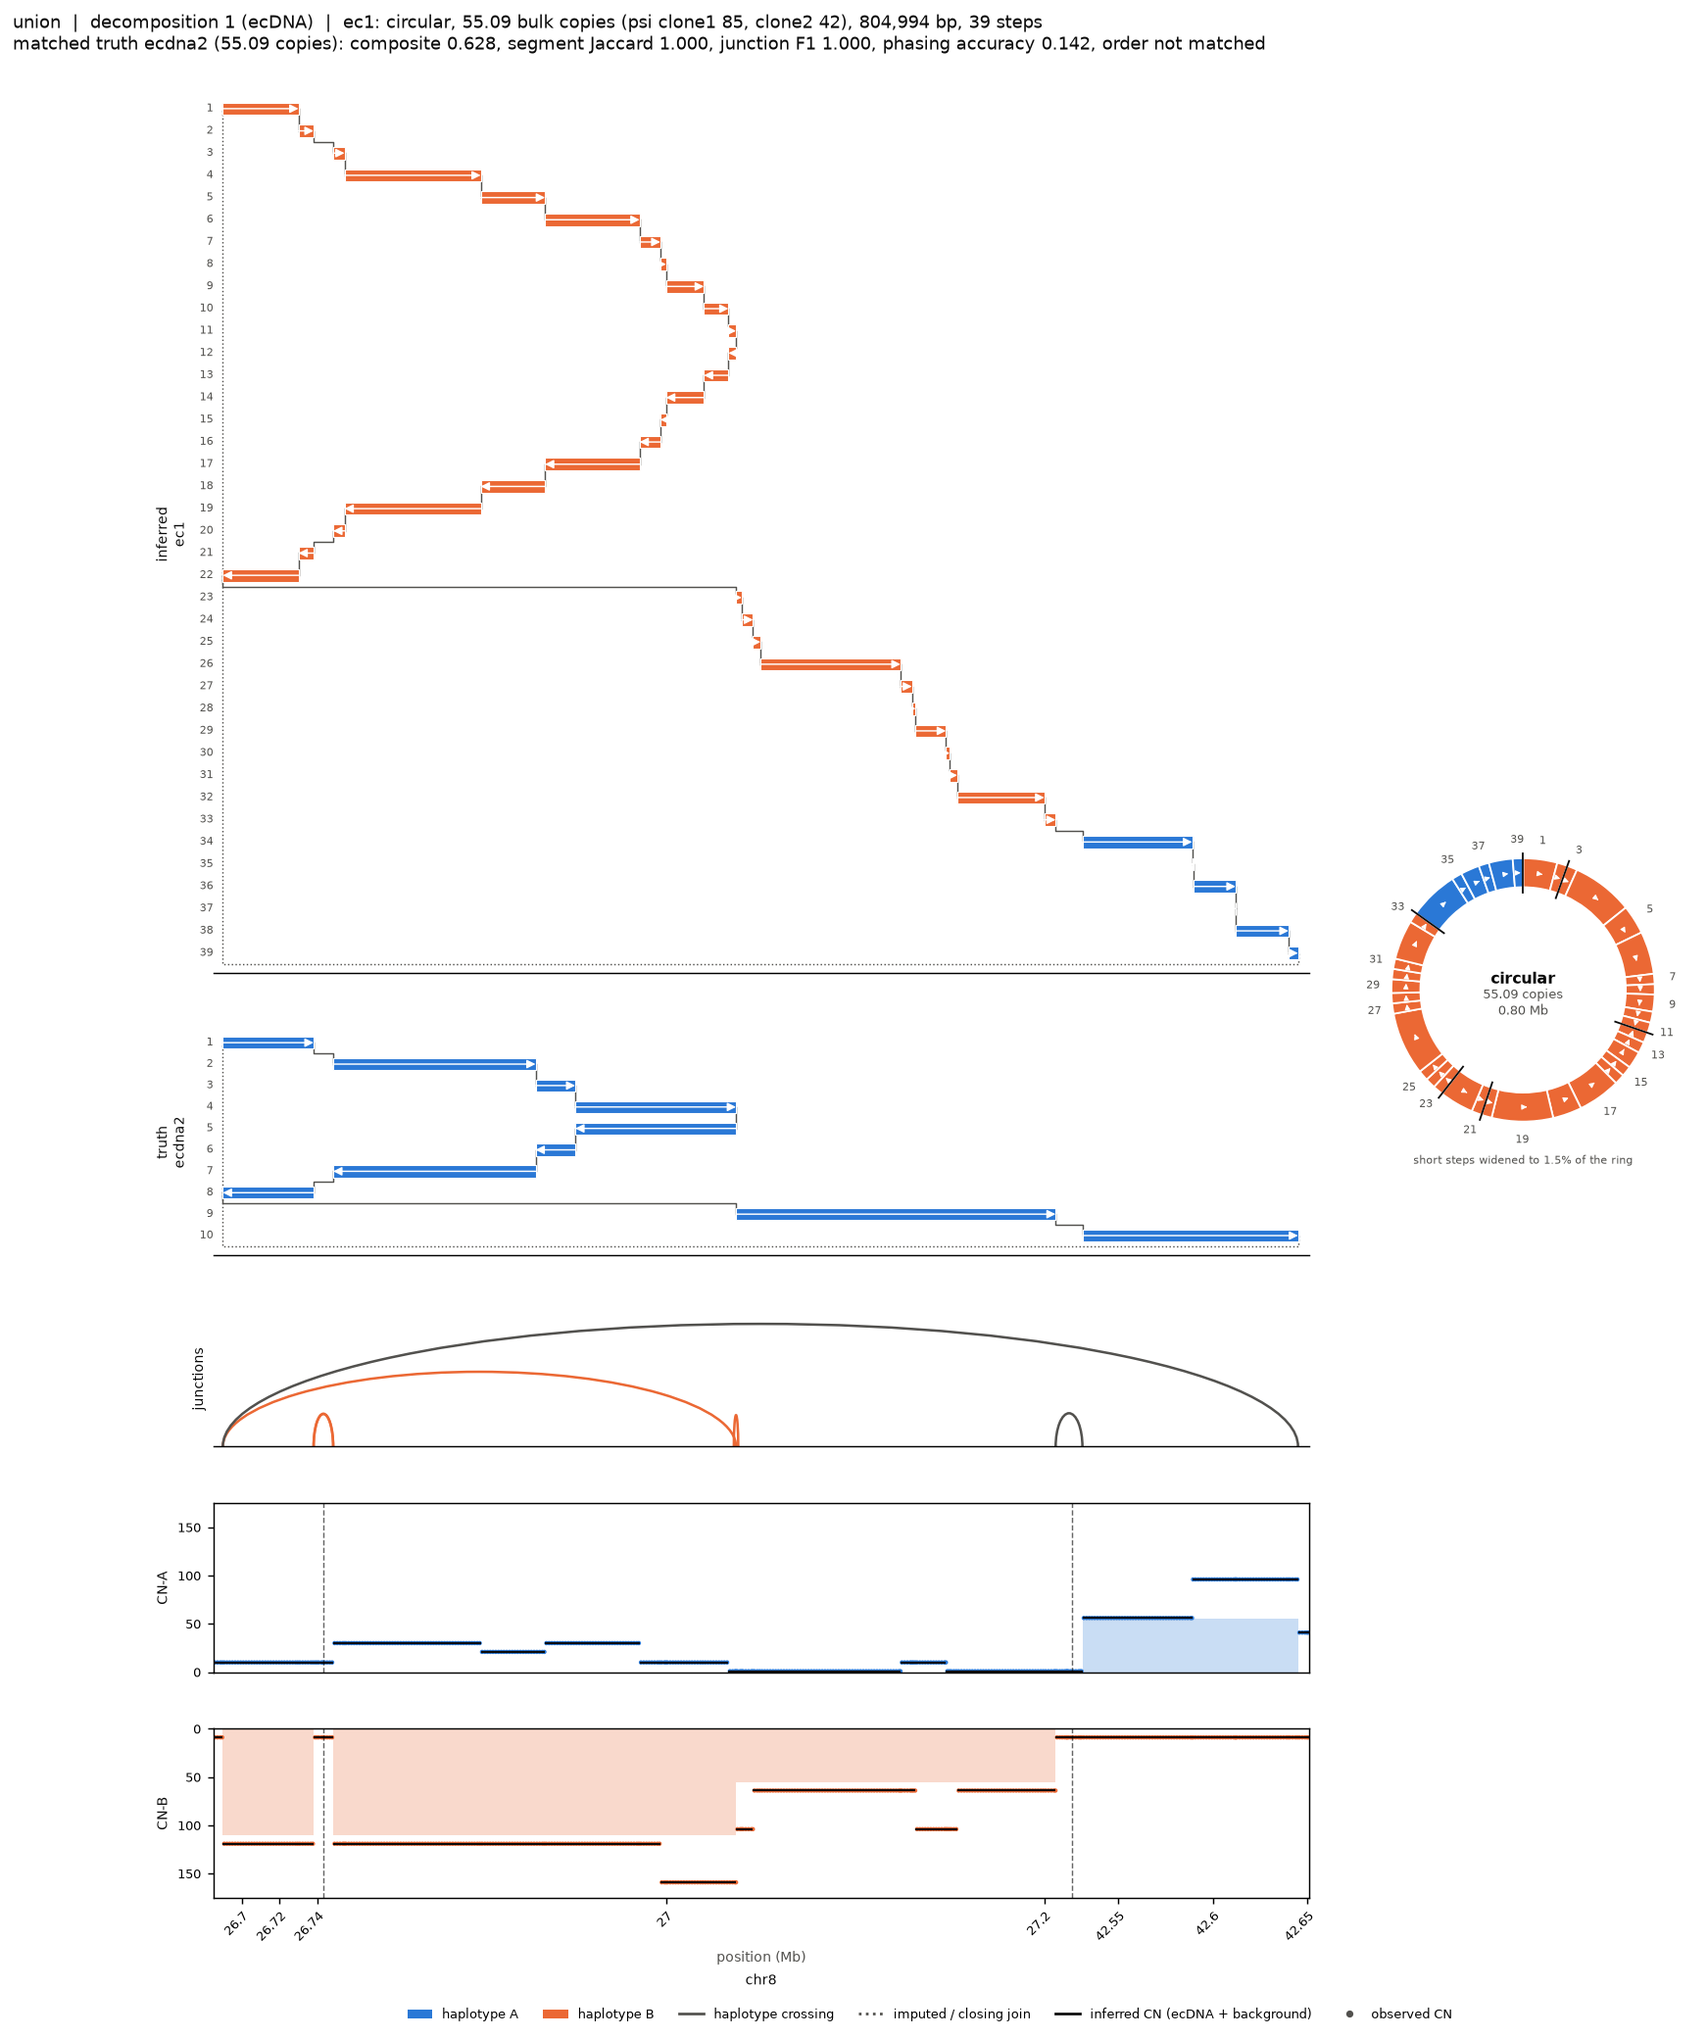
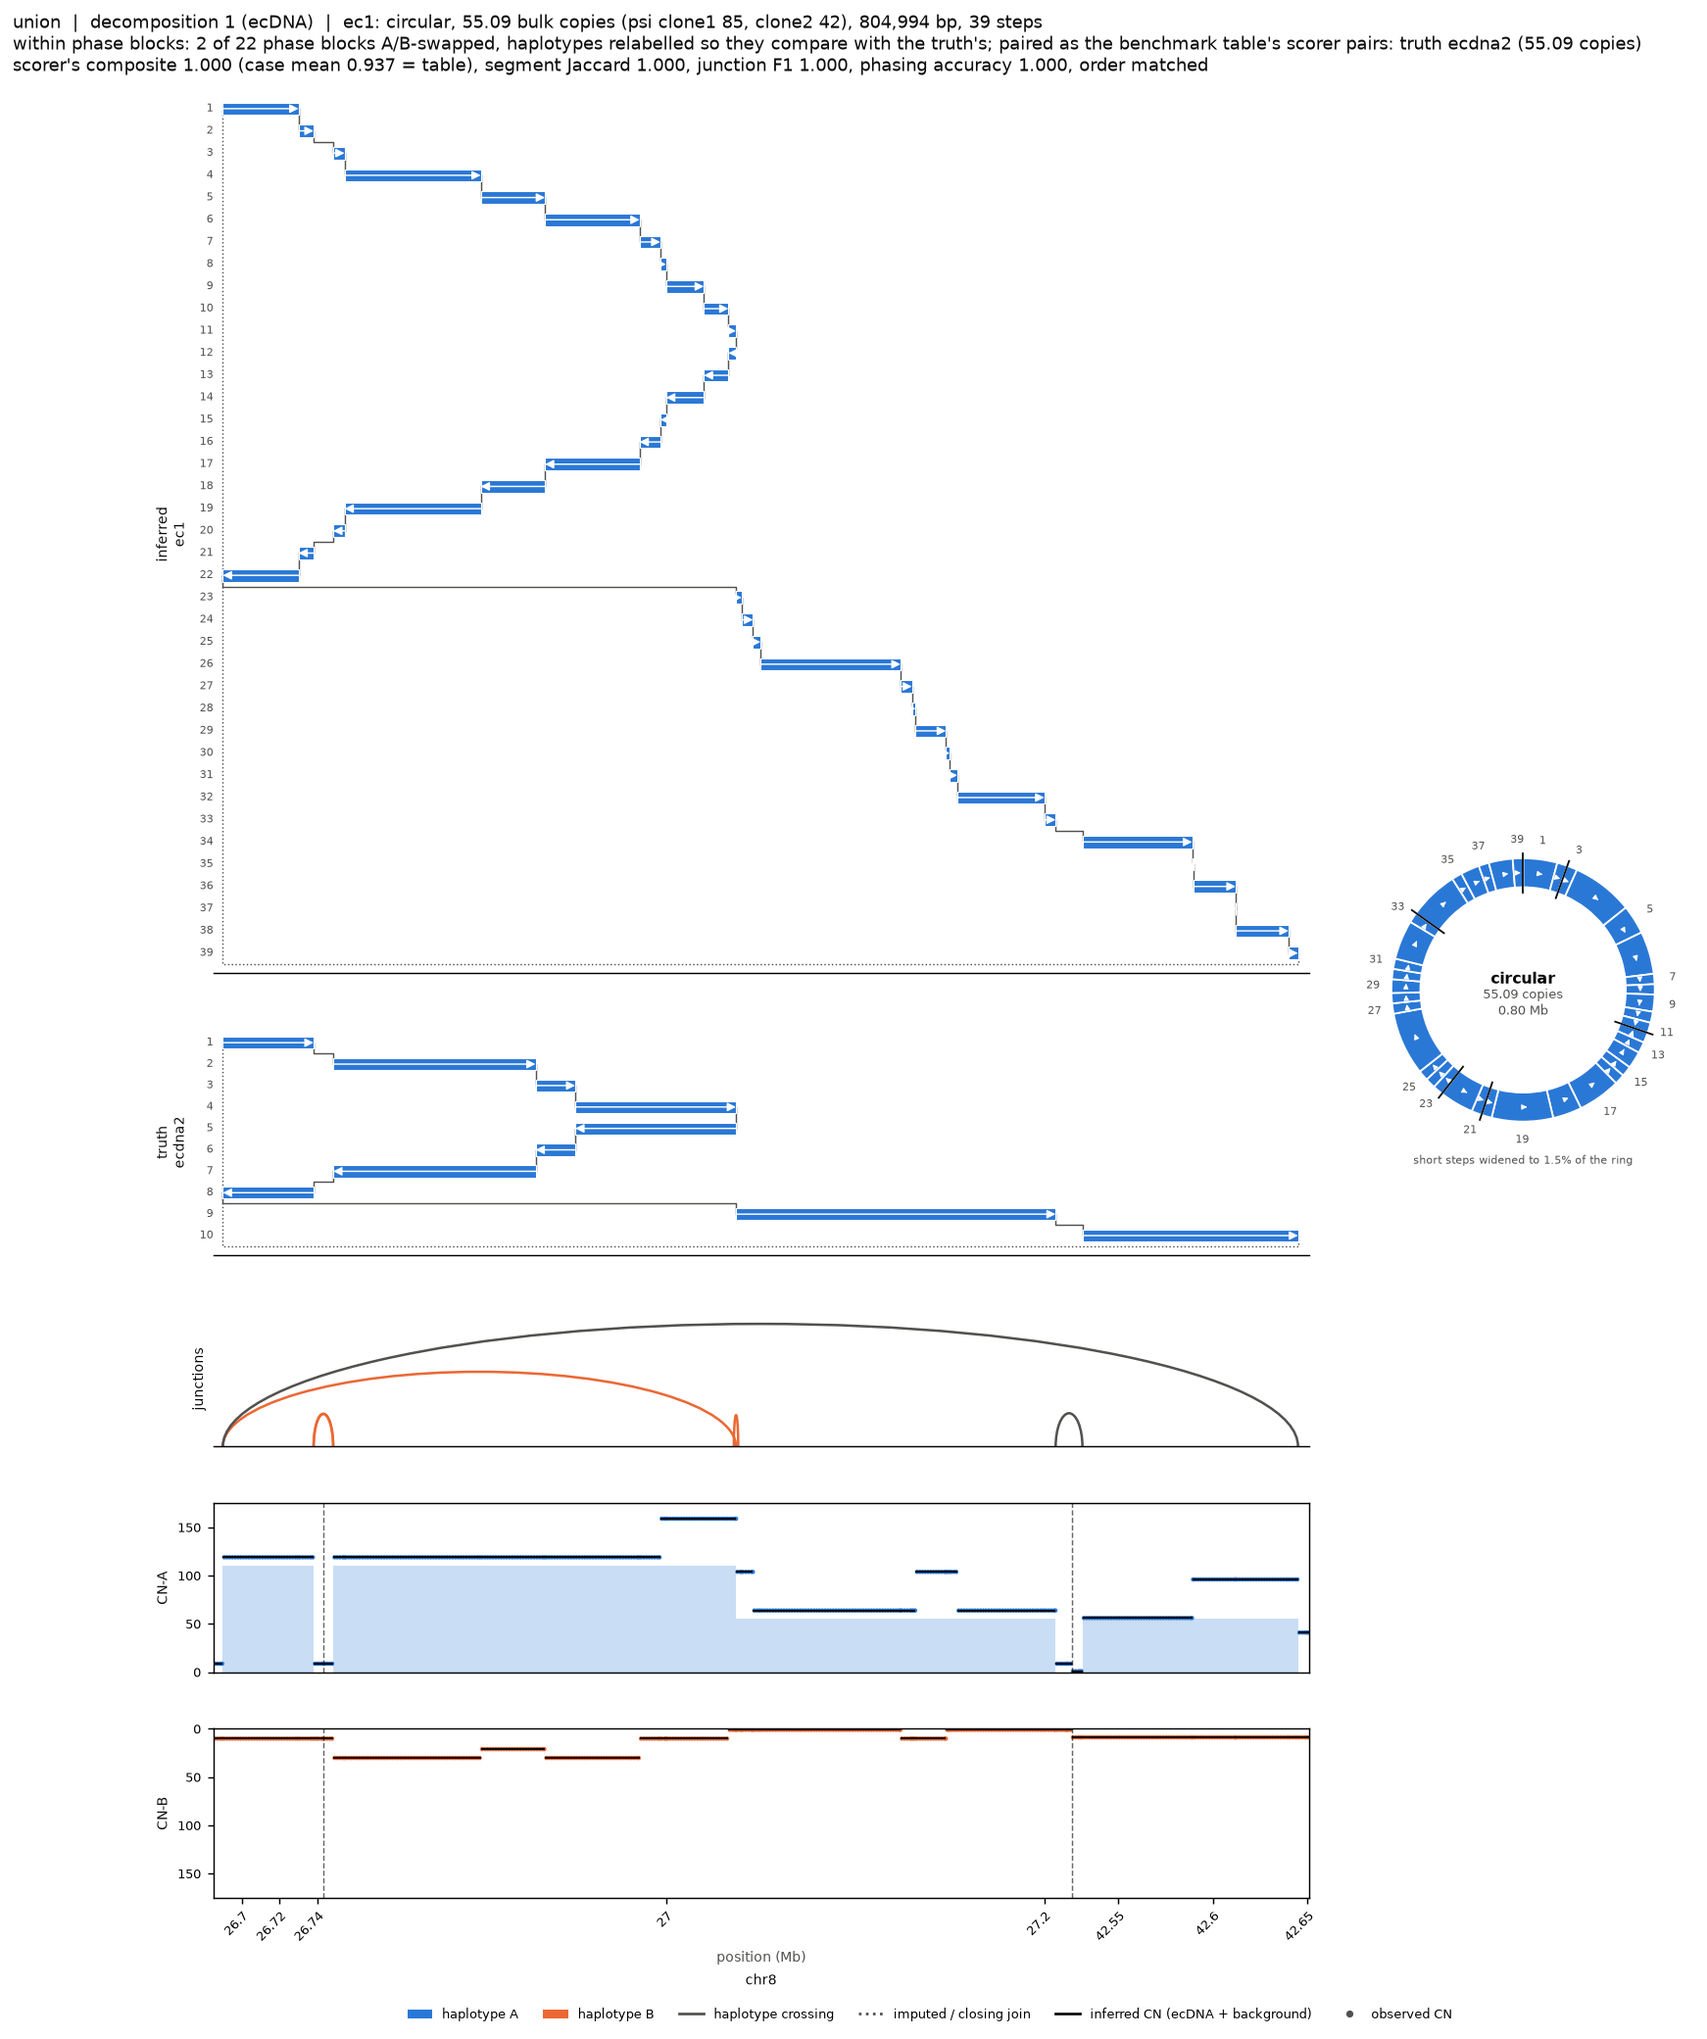
bench_IW_allele: numbered topology_plots folders' RCK MC pages within phase blocks
make_compare_plots.py --pages-case SET CASE FOLDER (same code as --pages): the 8 numbered folders'
rck_mc_rank1_ec<k>.png redrawn within phase blocks, old pages kept as *_absolute.png. All 8 agree with
rck_mc_recovery_matrix_block.tsv, the scorer's per-species rows and the table's mean_composite. Pair changed on
simple_S4_s13001 ec3 (none -> ecdna3, 0.733) and hard_S4_s16005 ec3 (ecdna1 -> ecdna4), ec4 (ecdna4 -> ecdna1).
audit_page_pairing.py reads the *_absolute pages where present; README.md section, PLAN.md, NEXT_STEPS.md updated.

Plots only; no Gurobi, no score or table changes; run folders only read.

diff --git a/results/bench_IW_allele/make_compare_plots.py b/results/bench_IW_allele/make_compare_plots.py
@@ -48,6 +48,7 @@ task; no Gurobi.
     python make_compare_plots.py --index K --pages  # only the RCK MC pages (within phase blocks), checked vs the tables
     python make_compare_plots.py --topology-case SET CASE FOLDER   # topology_compare.png (+ README.txt section) of any
                                                     # case with rck_mc and CoRAL runs (numbered topology_plots/ folders)
+    python make_compare_plots.py --pages-case SET CASE FOLDER   # --pages for any case (numbered folders)
     python make_compare_plots.py --topology-index   # that section of topology_plots/README.md
 
 topology_compare labels pairs from the scorer's own aa_species_metrics.tsv (strict; prints a note if re-matching
@@ -591,13 +592,14 @@ def topology_index():
     lines += ["", "`item1_dryrun/`: the three dry-run candidates' truth figures; all three are finished iw_allelic cases (the "
               "same simulations), so s18002 and s19006 got a `topology_compare.png` there; s17004's is `compare/2_sib_opp_mirror_s17004/`. "
               "`species_matrix/`: matrix figures only (no topology figure needed).", "",
-              "**RCK MC pages here (`rck_mc_rank1_ec<k>.png`, make_topology_plots.py) are the run's own rck-ecdna-plot pages: "
-              "absolute-frame pairing, not regenerated.** `rck_mc_pages_frame_check.tsv` (audit_page_pairing.py) compares each "
-              "page's pair with the within-block one. Pair differs on: `4_simple_S4_s13001` ec3 (no truth drawn; within blocks "
-              "→ ecdna3, 0.733) and `7_hard_S4_s16005` ec3 (ecdna1 → ecdna4) and ec4 (ecdna4 → ecdna1). Same pair but a lower "
-              "absolute composite on s12003 ec2, s13001 ec1/ec2/ec4, s16005 ec1/ec2 (haplotypes compared without the block "
-              "swaps). Equal on s11001, s14003, s15001, s15003, s16003. The within-block pages exist for the 8 `compare/` cases "
-              "(`make_compare_plots.py --index K --pages`); s16005 and s15003 are there."]
+              "**RCK MC pages here are within phase blocks too (2026-11-21, `make_compare_plots.py --pages-case iw_intpsi "
+              "<case> <folder>`):** `rck_mc_rank1_ec<k>.png` pairs and colours as the benchmark table (checked on all 8 against "
+              "the block TSV, the scorer's rows and `mean_composite`); the run's own pages are `*_absolute.png`. "
+              "`rck_mc_pages_frame_check.tsv` (audit_page_pairing.py) lists old vs new pair per page. Pair changed on "
+              "`4_simple_S4_s13001` ec3 (none → ecdna3, 0.733) and `7_hard_S4_s16005` ec3 (ecdna1 → ecdna4) and ec4 "
+              "(ecdna4 → ecdna1). Same pair, higher composite: s12003 ec2, s13001 ec1/ec2/ec4, s16005 ec1/ec2. Unchanged: "
+              "s11001, s14003, s15001, s15003, s16003. `rck_mc_recovery_matrix.png` here is still the run's (absolute); the "
+              "within-block matrix is in `species_matrix/iw_intpsi/<case>/`."]
     path = os.path.join(mtp.OUT, "README.md")
     text = open(path).read().split("\n" + INDEX_MARK)[0].rstrip("\n")
     with open(path, "w") as handle:
@@ -634,9 +636,13 @@ def check_pages(set_name, case, drawn):
 
 def pages_only(k):
     set_name, name, _ = CASES[k]
+    return pages_case(set_name, name, folder_of(k, name))
+
+
+def pages_case(set_name, name, folder):
+    """rck_mc_pages for any case into folder (compare or numbered topology_plots/ folders), checked vs the tables."""
     alb.use_set(set_name)
     case = next(c for c in alb.bi.cases() if c["name"] == name)
-    folder = folder_of(k, name)
     work = tempfile.mkdtemp(prefix="compare_")
     try:
         drawn = rck_mc_pages(set_name, case, folder, work)
@@ -661,6 +667,8 @@ def main():
     p.add_argument("--topology-case", nargs=3, metavar=("SET", "CASE", "FOLDER"),
                    help="draw only topology_compare.png of any case with rck_mc and CoRAL runs into FOLDER, and its "
                    "section in FOLDER/README.txt (scores from the benchmark table)")
+    p.add_argument("--pages-case", nargs=3, metavar=("SET", "CASE", "FOLDER"),
+                   help="--pages for any case into FOLDER (e.g. the numbered topology_plots/ folders)")
     p.add_argument("--topology-index", action="store_true", help="write the topology_compare.png section of "
                    "topology_plots/README.md (numbered folders; scores from the tables)")
     a = p.parse_args()
@@ -682,6 +690,8 @@ def main():
         topology_readme(set_name, case, folder)
         print("{n}: topology_compare.png and README.txt section -> {f}".format(n=name, f=folder))
         return 0
+    if a.pages_case:
+        return pages_case(*a.pages_case)
     if a.pages:
         if a.index is None:
             p.error("--pages needs --index")

diff --git a/results/bench_IW_allele/audit_page_pairing.py b/results/bench_IW_allele/audit_page_pairing.py
@@ -4,7 +4,8 @@
 For every RCK MC page in topology_plots/compare/<k>_<case>/ and topology_plots/<k>_<case>/, compares the pair the
 rck-ecdna-plot page drew from the run's evaluation.tsv (absolute frame: run's own pairing and composite) with the
 within-block pair of species_matrix/<set>/<case>/rck_mc_recovery_matrix_block.tsv (the benchmark table's pairing and
-composite). Writes topology_plots/rck_mc_pages_frame_check.tsv. Reads only; no Gurobi.
+composite). Uses the *_absolute.png pages where the folder has been regenerated within blocks (all 16 folders since
+2026-11-21). Writes topology_plots/rck_mc_pages_frame_check.tsv. Reads only; no Gurobi.
 
     python audit_page_pairing.py
 """
@@ -46,14 +47,14 @@ def main():
         new = {r.inferred: (r.truth, float(r.composite)) for r in m.itertuples() if isinstance(r.inferred, str)}
         pages = sorted(p for p in glob.glob(os.path.join(folder, "rck_mc_rank*_*.png")) if not p.endswith("_absolute.png"))
         absolute = sorted(glob.glob(os.path.join(folder, "rck_mc_rank*_absolute.png")))
-        for p in (absolute if where == "compare" else pages):
+        for p in (absolute or pages):
             sp = re.match(r"rck_mc_rank\d+_(.+?)(_absolute)?\.png$", os.path.basename(p)).group(1)
             o, n = old.get(sp, (None, None)), new.get(sp, (None, None))
             rows.append({"where": where, "set": set_name, "case": name, "folder": os.path.relpath(folder, TOPO),
                          "page": os.path.basename(p), "inferred": sp, "absolute_truth": o[0] or "",
                          "absolute_composite": o[1], "block_truth": n[0] or "", "block_composite": n[1],
                          "pair_differs": (o[0] or "") != (n[0] or ""),
-                         "regenerated_within_blocks": where == "compare"})
+                         "regenerated_within_blocks": bool(absolute)})
     out = pd.DataFrame(rows)
     out.to_csv(os.path.join(TOPO, "rck_mc_pages_frame_check.tsv"), sep="\t", index=False, float_format="%.3f")
     print(out.to_string(index=False, float_format=lambda v: "%.3f" % v))

diff --git a/results/bench_IW_allele/PLAN.md b/results/bench_IW_allele/PLAN.md
@@ -81,8 +81,9 @@ detail"):
    (`make_compare_plots.py`, local, ~30 s per case, no Gurobi; details under "Figures: within-block recovery and J
    matrices", "RCK MC pages and more topology figures"). The 8 compare cases' `rck_mc_rank1_ec<k>.png` now pair and
    colour as the table does (old pages kept as `*_absolute.png`); `topology_compare.png` added to the 8 numbered
-   `topology_plots/` folders and to `item1_dryrun/` s18002 and s19006. **Waiting for Yubi:** whether to regenerate the
-   numbered folders' own RCK MC pages (absolute frame; 3 pages pair differently, see `topology_plots/README.md`).
+   `topology_plots/` folders and to `item1_dryrun/` s18002 and s19006. The 8 numbered folders' RCK MC pages were then
+   regenerated within blocks too (Yubi's go-ahead; `--pages-case`), all agreeing with the tables. **Waiting for Yubi:**
+   look at the figures.
 
 **Part B: array finished, results not yet exported, scored or written (state checked 2026-11-20, nothing
 re-run).** `rck_partB.py status`: `chil` 24 / 24 optimal, `chil_avg` 24 / 24, `chil_err` 23 optimal + 1
@@ -810,8 +811,9 @@ species has novel adjacencies). The 22 misses:
   s18004 and s18006 ec1 ecdna1 → ecdna2, ec2 ecdna2 → ecdna1; hard_S4_s16005 ec3 ecdna1 → ecdna4, ec4 ecdna4 → ecdna1;
   hard_S4_s16002 ec4 none → ecdna4; hard_S4_s16006 ec1 ecdna4 → ecdna3, ec2 none → ecdna1, ec3 none → ecdna2, ec4
   ecdna3 → ecdna4. Unchanged pairs (s17004, s19012, s15003, the rest) often had a lower absolute composite.
-- **Numbered folders** (`topology_plots/<k>_<case>/`, make_topology_plots.py): their RCK MC pages are still absolute.
-  Pair differs on simple_S4_s13001 ec3 (none → ecdna3) and hard_S4_s16005 ec3 / ec4 (as above); not regenerated (ask).
+- **Numbered folders** (`topology_plots/<k>_<case>/`): RCK MC pages regenerated within blocks the same way (Yubi,
+  2026-11-21; `make_compare_plots.py --pages-case iw_intpsi <case> <folder>`), old ones `*_absolute.png`; all 8 agree
+  with the tables. Pair changed on simple_S4_s13001 ec3 (none → ecdna3, 0.733) and hard_S4_s16005 ec3 / ec4 (as above).
 - **topology_compare.png** (`--topology-case SET CASE FOLDER`): now labelled from the scorer's own
   `aa_species_metrics.tsv` (equal to the earlier re-matching on all 18 cases drawn, so the compare figures stand). Added for
   the 8 numbered folders (hard_S2_s15001 is item 2 of the request) and `item1_dryrun/` s18002 and s19006 (the dry-run

diff --git a/results/bench_IW_allele/topology_plots/README.md b/results/bench_IW_allele/topology_plots/README.md
@@ -32,4 +32,4 @@ Added 2026-11-21. `topology_compare.png` as in `compare/`: one genome axis; the 
 
 `item1_dryrun/`: the three dry-run candidates' truth figures; all three are finished iw_allelic cases (the same simulations), so s18002 and s19006 got a `topology_compare.png` there; s17004's is `compare/2_sib_opp_mirror_s17004/`. `species_matrix/`: matrix figures only (no topology figure needed).
 
-**RCK MC pages here (`rck_mc_rank1_ec<k>.png`, make_topology_plots.py) are the run's own rck-ecdna-plot pages: absolute-frame pairing, not regenerated.** `rck_mc_pages_frame_check.tsv` (audit_page_pairing.py) compares each page's pair with the within-block one. Pair differs on: `4_simple_S4_s13001` ec3 (no truth drawn; within blocks → ecdna3, 0.733) and `7_hard_S4_s16005` ec3 (ecdna1 → ecdna4) and ec4 (ecdna4 → ecdna1). Same pair but a lower absolute composite on s12003 ec2, s13001 ec1/ec2/ec4, s16005 ec1/ec2 (haplotypes compared without the block swaps). Equal on s11001, s14003, s15001, s15003, s16003. The within-block pages exist for the 8 `compare/` cases (`make_compare_plots.py --index K --pages`); s16005 and s15003 are there.
+**RCK MC pages here are within phase blocks too (2026-11-21, `make_compare_plots.py --pages-case iw_intpsi <case> <folder>`):** `rck_mc_rank1_ec<k>.png` pairs and colours as the benchmark table (checked on all 8 against the block TSV, the scorer's rows and `mean_composite`); the run's own pages are `*_absolute.png`. `rck_mc_pages_frame_check.tsv` (audit_page_pairing.py) lists old vs new pair per page. Pair changed on `4_simple_S4_s13001` ec3 (none → ecdna3, 0.733) and `7_hard_S4_s16005` ec3 (ecdna1 → ecdna4) and ec4 (ecdna4 → ecdna1). Same pair, higher composite: s12003 ec2, s13001 ec1/ec2/ec4, s16005 ec1/ec2. Unchanged: s11001, s14003, s15001, s15003, s16003. `rck_mc_recovery_matrix.png` here is still the run's (absolute); the within-block matrix is in `species_matrix/iw_intpsi/<case>/`.

diff --git a/results/bench_IW_allele/NEXT_STEPS.md b/results/bench_IW_allele/NEXT_STEPS.md
@@ -13,9 +13,9 @@ Local, no Gurobi (PLAN.md "RCK MC pages and more topology figures").
    Needs `make_block_figures.py run` output (`species_matrix/<set>/<case>/rck_mc_recovery_matrix_block.tsv`) first.
 2. **Look at:** `compare/<case>/rck_mc_rank1_ec<k>.png` next to `*_absolute.png`; `topology_plots/<k>_<case>/topology_compare.png`;
    `item1_dryrun/{sib_opp_shared_s18002, sib_mixed_mirror_s19006}/topology_compare.png`.
-3. **Open for Yubi:** regenerate the numbered folders' RCK MC pages within blocks too? (3 pages pair differently:
-   simple_S4_s13001 ec3, hard_S4_s16005 ec3 / ec4; `topology_plots/rck_mc_pages_frame_check.tsv`.) It would need
-   make_topology_plots.py to call `make_compare_plots.rck_mc_pages`.
+3. **Numbered folders' RCK MC pages: done within blocks** (Yubi's go-ahead, 2026-11-21): `python make_compare_plots.py
+   --pages-case iw_intpsi <case> topology_plots/<k>_<case>/`; old pages `*_absolute.png`. Note `make_topology_plots.py`
+   still draws absolute pages: after rerunning it, rerun `--pages-case` for those folders.
 
 ## Within-block recovery matrices and J_seg / J_adj matrices (2026-11-21): DONE, waiting for Yubi to look
 
